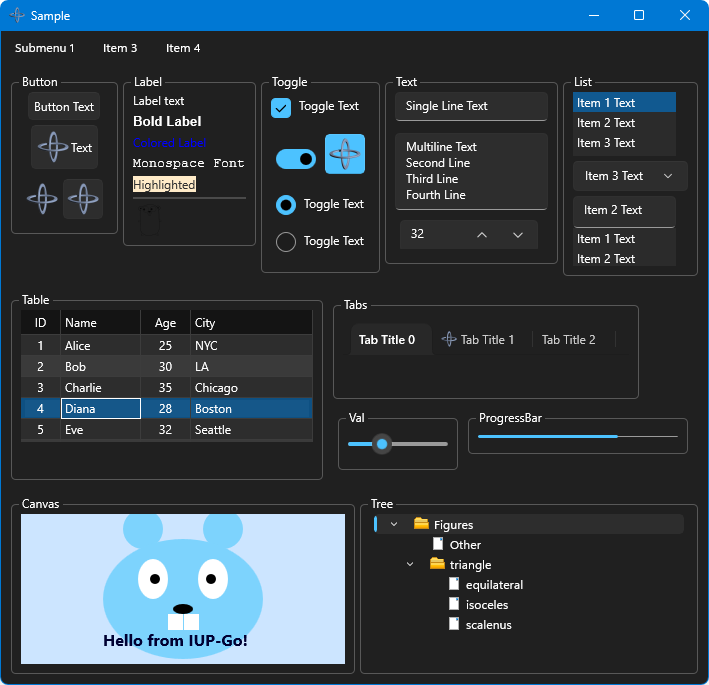
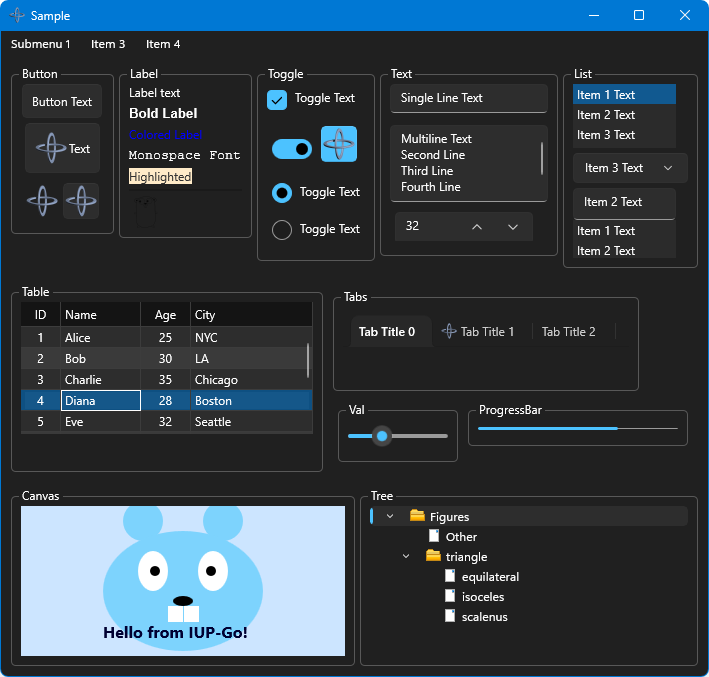
winui: Adjust padding and border values

diff --git a/iup/external/src/winui/iupwinui_button.cpp b/iup/external/src/winui/iupwinui_button.cpp
@@ -32,10 +32,10 @@ using namespace Microsoft::UI::Xaml::Media::Imaging;
 using namespace Windows::Foundation;
 
 
-static int winui_button_padding_x = 25;
-static int winui_button_padding_y = 14;
-static int winui_button_struct_x = 2;
-static int winui_button_struct_y = 2;
+static int winui_button_padding_x = 10;
+static int winui_button_padding_y = 8;
+static int winui_button_struct_x = 10;
+static int winui_button_struct_y = 8;
 
 static void winuiButtonClickHandler(Ihandle* ih)
 {
@@ -334,13 +334,6 @@ static int winuiButtonSetPaddingAttrib(Ihandle* ih, const char* value)
 
   iupStrToIntInt(value, &ih->data->horiz_padding, &ih->data->vert_padding, 'x');
 
-  if (ih->handle)
-  {
-    Button btn = winuiGetHandle<Button>(ih);
-    if (btn)
-      btn.Padding(ThicknessHelper::FromLengths(ih->data->horiz_padding, ih->data->vert_padding, ih->data->horiz_padding, ih->data->vert_padding));
-  }
-
   return 0;
 }
 
@@ -446,6 +439,7 @@ static int winuiButtonMapMethod(Ihandle* ih)
   btn.VerticalAlignment(VerticalAlignment::Top);
   btn.MinWidth(0);
   btn.MinHeight(0);
+  btn.Padding(ThicknessHelper::FromLengths(4, 3, 4, 3));
 
   if (ih->userwidth > 0 || ih->userheight > 0)
     btn.Padding(Thickness{0, 0, 0, 0});
@@ -634,7 +628,7 @@ static void winuiButtonUnMapMethod(Ihandle* ih)
 
 extern "C" IUP_SDK_API void iupdrvButtonAddBorders(Ihandle* ih, int* x, int* y)
 {
-  int border_size = 8;
+  int border_size = 4;
 
   if (ih)
   {

diff --git a/iup/external/src/winui/iupwinui_menu.cpp b/iup/external/src/winui/iupwinui_menu.cpp
@@ -175,6 +175,16 @@ static int winuiMenuMapMethod(Ihandle* ih)
       box_value(L"ControlContentThemeFontSize"),
       box_value(fontSize));
 
+    menuBar.Resources().Insert(
+      box_value(L"MenuBarHeight"),
+      box_value(0.0));
+    menuBar.Resources().Insert(
+      box_value(L"MenuBarItemMargin"),
+      box_value(ThicknessHelper::FromLengths(0, 0, 0, 0)));
+    menuBar.Resources().Insert(
+      box_value(L"MenuBarItemButtonPadding"),
+      box_value(ThicknessHelper::FromLengths(8, 2, 8, 2)));
+
     winuiStoreHandle(ih, menuBar);
 
     Ihandle* dialog = ih->parent;

diff --git a/iup/external/src/winui/iupwinui_tree.cpp b/iup/external/src/winui/iupwinui_tree.cpp
@@ -1550,7 +1550,7 @@ static void winuiTreeUpdateSpacingResources(Ihandle* ih, TreeView treeView)
 {
   int spacing = ih->data->spacing;
   double minHeight = spacing > 0 ? (double)(spacing * 2) : 0.0;
-  Thickness margin = {4, (double)spacing, 4, (double)spacing};
+  Thickness margin = {0, (double)spacing, 0, (double)spacing};
   Thickness padding = {0, 0, 0, 0};
 
   treeView.Resources().Insert(box_value(L"TreeViewItemMinHeight"), box_value(minHeight));

diff --git a/iup/external/src/winui/iupwinui_list.cpp b/iup/external/src/winui/iupwinui_list.cpp
@@ -845,6 +845,7 @@ static ListBoxItem winuiListCreateItem(Ihandle* ih, const char* value)
 
   item.Padding(ThicknessHelper::FromLengths(4, 2, 4, 2));
   item.MinHeight(0);
+  item.MinWidth(0);
 
   if (iupStrBoolean(iupAttribGet(ih, "DRAGSOURCE")))
     winuiListSetItemDragSource(ih, item);
